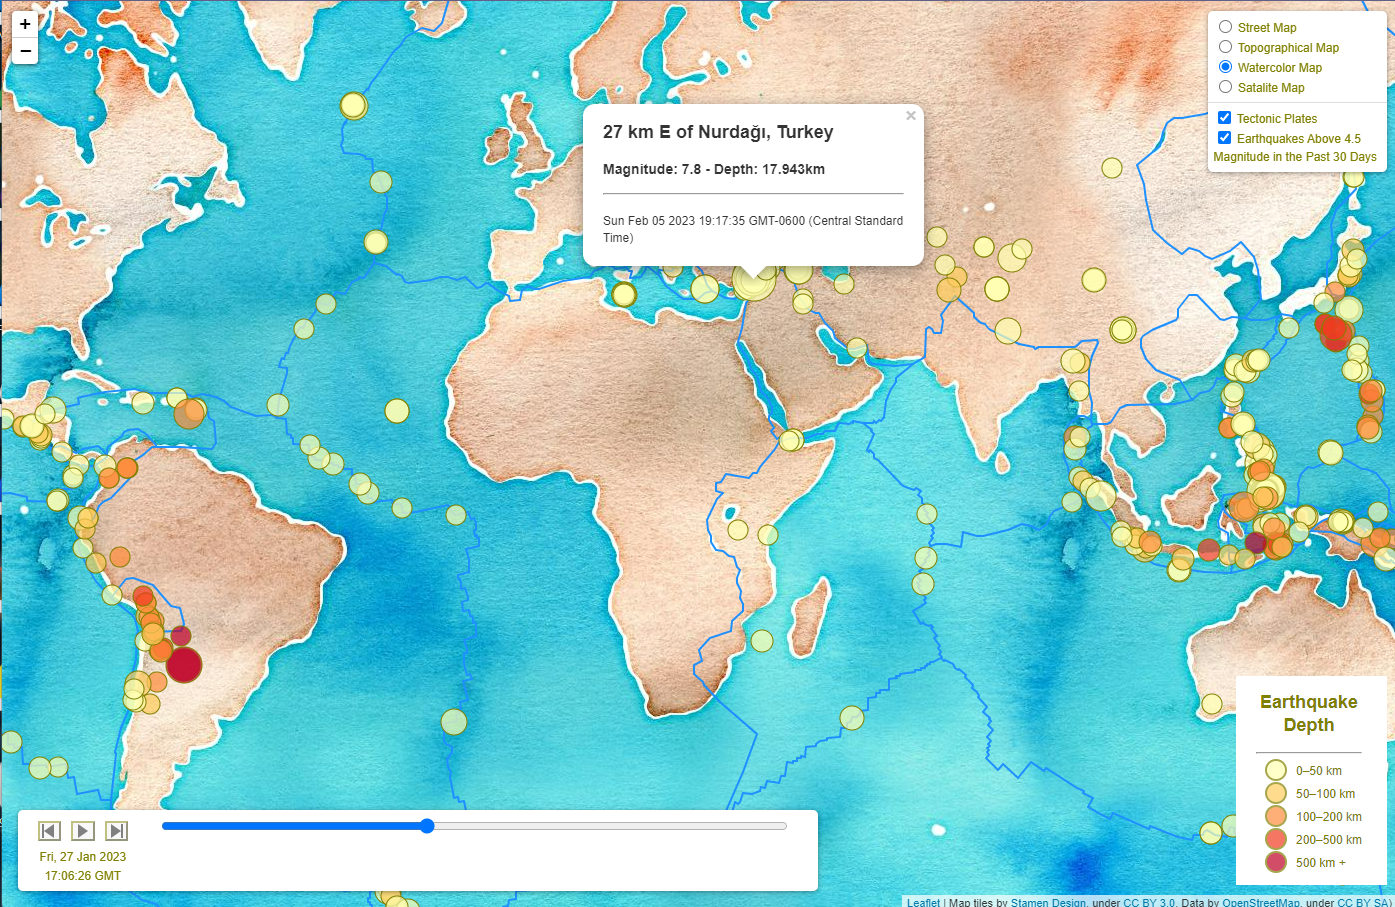
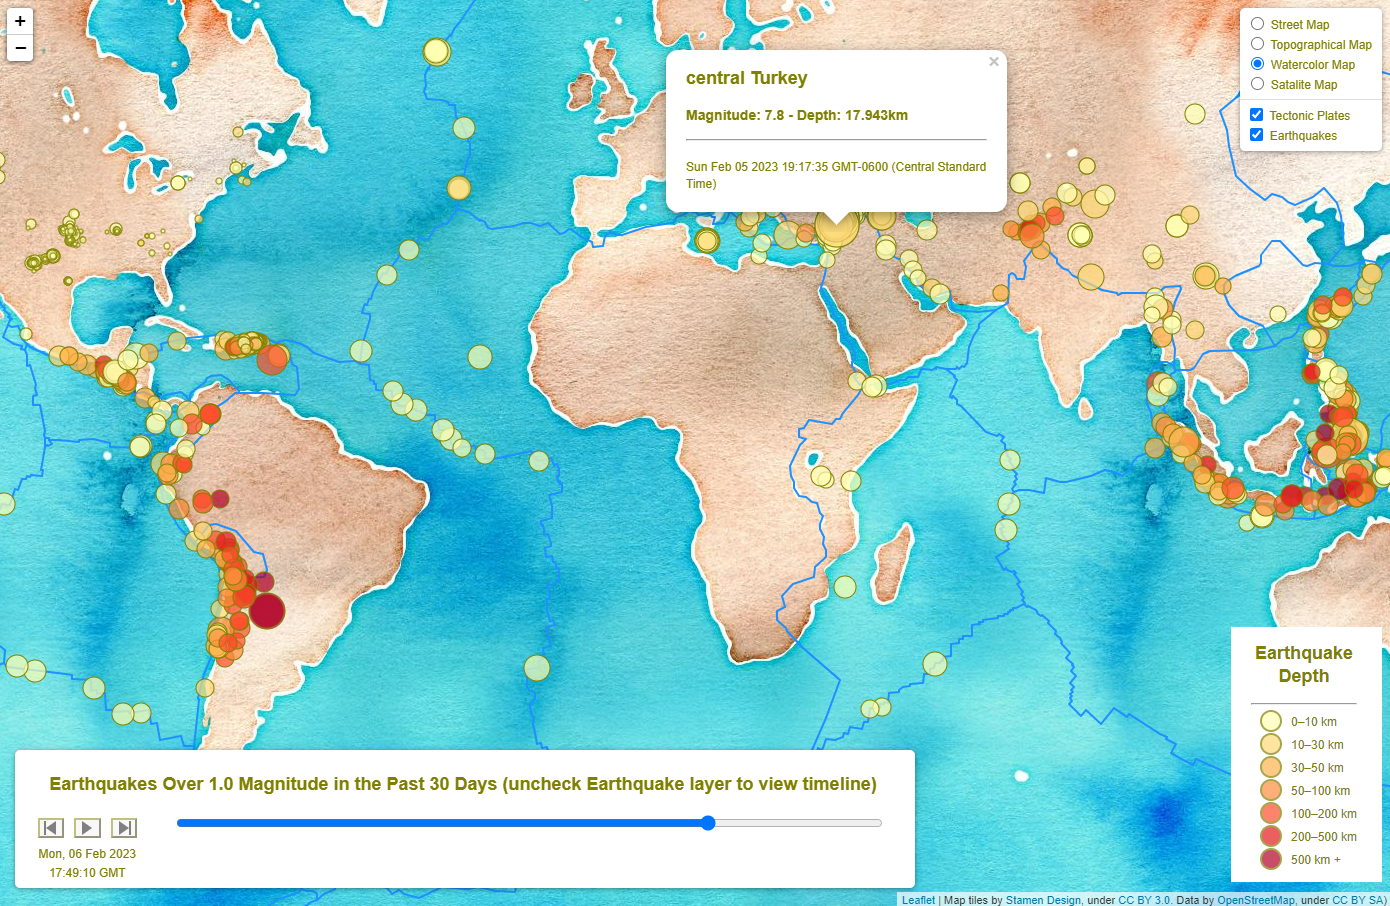
more style tweaks, working on fine tuning playback

diff --git a/static/js/logic.js b/static/js/logic.js
@@ -1,5 +1,5 @@
 // Define function to create map layers and display them
-function createMap(eqs, plates, t, tc) {
+function createMap(eqs, plates, timeline, timecontrol) {
 
     // Base map layer
     var base = L.tileLayer('https://{s}.tile.openstreetmap.org/{z}/{x}/{y}.png', {
@@ -32,27 +32,31 @@ function createMap(eqs, plates, t, tc) {
     // Overlays
     var overlayMaps = {
         "<span style='color: olive'>Tectonic Plates</span>": plates,
-        "<span style='color: olive'>Earthquakes Above 4.5<br>Magnitude in the Past 30 Days</span>": eqs
+        "<span style='color: olive'>Earthquakes</span>": eqs
     };
 
     // Map object
     var myMap = L.map("map", {
-        center: [0, 30],
+        center: [0, 12],
         zoom: 3,
         layers: [base, eqs]
     });
 
-    // Control panel
-    L.control.layers(baseMaps, overlayMaps, {
-        collapsed: false
-    }).addTo(myMap);
+    // Add layer control panel to map
+    L.control.layers(baseMaps, overlayMaps).addTo(myMap);
 
-    tc.addTo(myMap);
-    tc.addTimelines(t);
-    t.addTo(myMap);
+    // Add timeline to map
+    timecontrol.addTo(myMap);
+    timecontrol.addTimelines(timeline);
+    timeline.addTo(myMap);
+    
+    // Append title to top of timeline control
+    var container = timecontrol.getContainer();
+    const titleNode = document.createElement('h2');
+    const nodeText = document.createTextNode('Earthquakes Over 1.0 Magnitude in the Past 30 Days (uncheck Earthquake layer to view timeline)');
+    titleNode.appendChild(nodeText);
+    container.insertBefore(titleNode, container.children[0]);
 
-    container = tc.getContainer();
-    console.log(container);
 
     // Create legend object
     var legend = L.control({position: 'bottomright'});
@@ -62,7 +66,7 @@ function createMap(eqs, plates, t, tc) {
 
         // Create the legend div
         var div = L.DomUtil.create('div', 'info legend'),
-            levels = [0, 50, 100, 200, 500],
+            levels = [0, 10, 30, 50, 100, 200, 500],
             labels = [];
 
         // Add legend title
@@ -87,13 +91,17 @@ function getColor(depth){
     
     // Deeper depths get darker colors
     if (depth > 500){
-        return '#bd0026';
+        return '#b10026'
     } else if (depth > 200){
-        return '#f03b20'
-    } else if(depth > 100) {
+        return '#e31a1c';
+    } else if (depth > 100){
+        return '#fc4e2a'
+    } else if(depth > 50) {
         return '#fd8d3c'
-    } else if (depth > 50) {
-        return '#fecc5c'
+    } else if (depth > 30) {
+        return '#feb24c'
+    } else if (depth > 10) {
+        return '#fed976'
     } else {
         return '#ffffb2'
     };
@@ -147,11 +155,11 @@ function createMarkers(response1, response2) {
     var getInterval = function(quake) {
         return {
             start: quake.properties.time,
-            end: quake.properties.time + quake.properties.mag * 20_000_000,
+            end: quake.properties.time + quake.properties.mag * 30_000_000,
         };
     };
 
-    // Timeline control
+    // Create timeline control
     var timelineControl = L.timelineSliderControl({
         formatOutput: function(date) {
             return '<span style="color: olive">' + new Date(date).toUTCString() + '</span>';
@@ -172,8 +180,8 @@ function createMarkers(response1, response2) {
 
 
 // URL to get Earthquake data from USGS.gov site
-// Getting info on earthquakes 4.5 and above from the last month
-var quakeUrl = 'https://earthquake.usgs.gov/earthquakes/feed/v1.0/summary/4.5_month.geojson';
+// Getting info on earthquakes 1.0 and above from the last month
+var quakeUrl = 'https://earthquake.usgs.gov/earthquakes/feed/v1.0/summary/1.0_month.geojson';
 
 // URL to get tectonic plate data from Hugo Ahlenius, Nordpil and Peter Bird GitHub page
 var plateUrl = 'https://raw.githubusercontent.com/fraxen/tectonicplates/master/GeoJSON/PB2002_boundaries.json';

diff --git a/static/css/style.css b/static/css/style.css
@@ -30,7 +30,16 @@ html {
 }
 
 .leaflet-timeline-control {
-  width: 800px !important;
+  width: 900px !important;
+}
+h3 {
+  color: olive;
+}
+h2 {
+  color: olive;
+}
+p {
+  color: olive;
 }
 
 .play {
